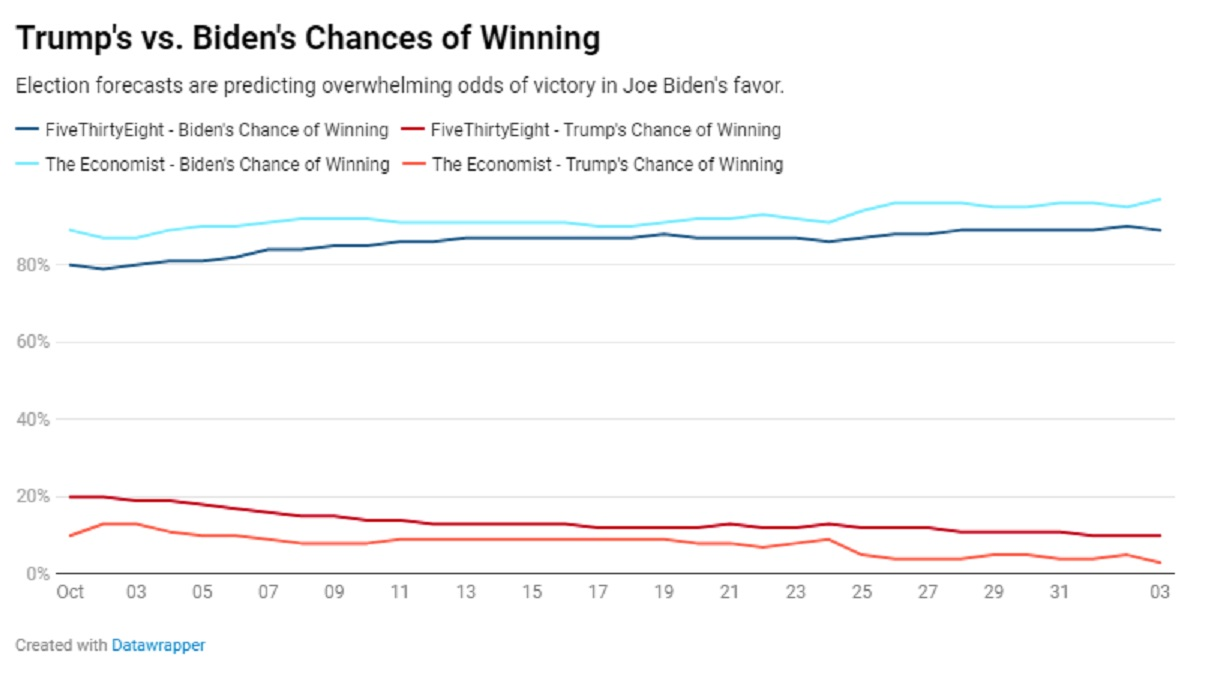
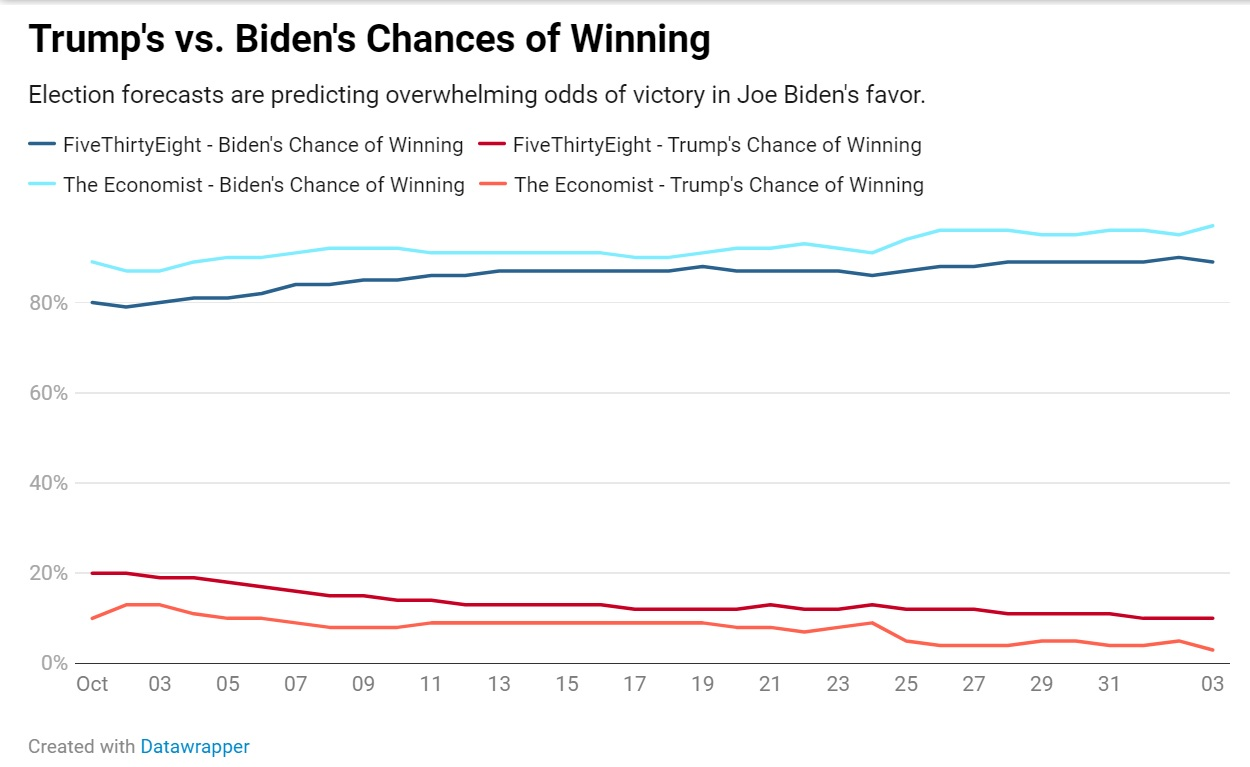
Changed data viz hero image
true

diff --git a/sections.css b/sections.css
@@ -101,7 +101,7 @@ p.summary {font-family: 'baskerville-display-pt', 'Georgia'; margin-bottom: 5px;
 /*Containers, etc.*/
 #reporting-hero {background-image: url("images/rotunda1.jpg");}
 #design-hero {background-image: url("images/scotus3.jpg");}
-#dataviz-hero {background-image: url("images/code.jpg");}
+#dataviz-hero {background-image: url("images/chart1.jpg");}
 .navbar {font-family: 'Proxima Nova', 'Noto Sans', 'Helvetica', 'Montserrat', sans-serif; color: inherit; width: 100%; border-bottom: 1px solid #bfbfbf; display: none;}
 .hero-container {display: inline-block; position: relative; width: 100%; height: 100vh; background-repeat: no-repeat; margin: 0 auto; background-position: center; background-size: cover; max-width: 100%;}
 .icon-links {display: inline-block; text-align: center;}

diff --git a/dataviz.html b/dataviz.html
@@ -76,7 +76,7 @@ initial-scale=1, shrink-to-fit=no">
 <a href="https://halas92.github.io/Portfolio/design.html" a class="icon-sub-link"><p class="icon-subtitle">DIGITAL</p></a>
 </div>
 </div>
-<p class="hero-footer">Lines of CSS code written by Horus Alas. &copy; 2021 All rights reserved.</p>
+<p class="hero-footer">Zoomed-in view of an interactive chart tracking election handicappers' predictions for former President Donald Trump vs. then-Democratic presidential nominee Joe Biden's chances of victory in the 2020 race. &copy; 2021 All rights reserved.</p>
 </div>
 <!--End Hero container-->
 
